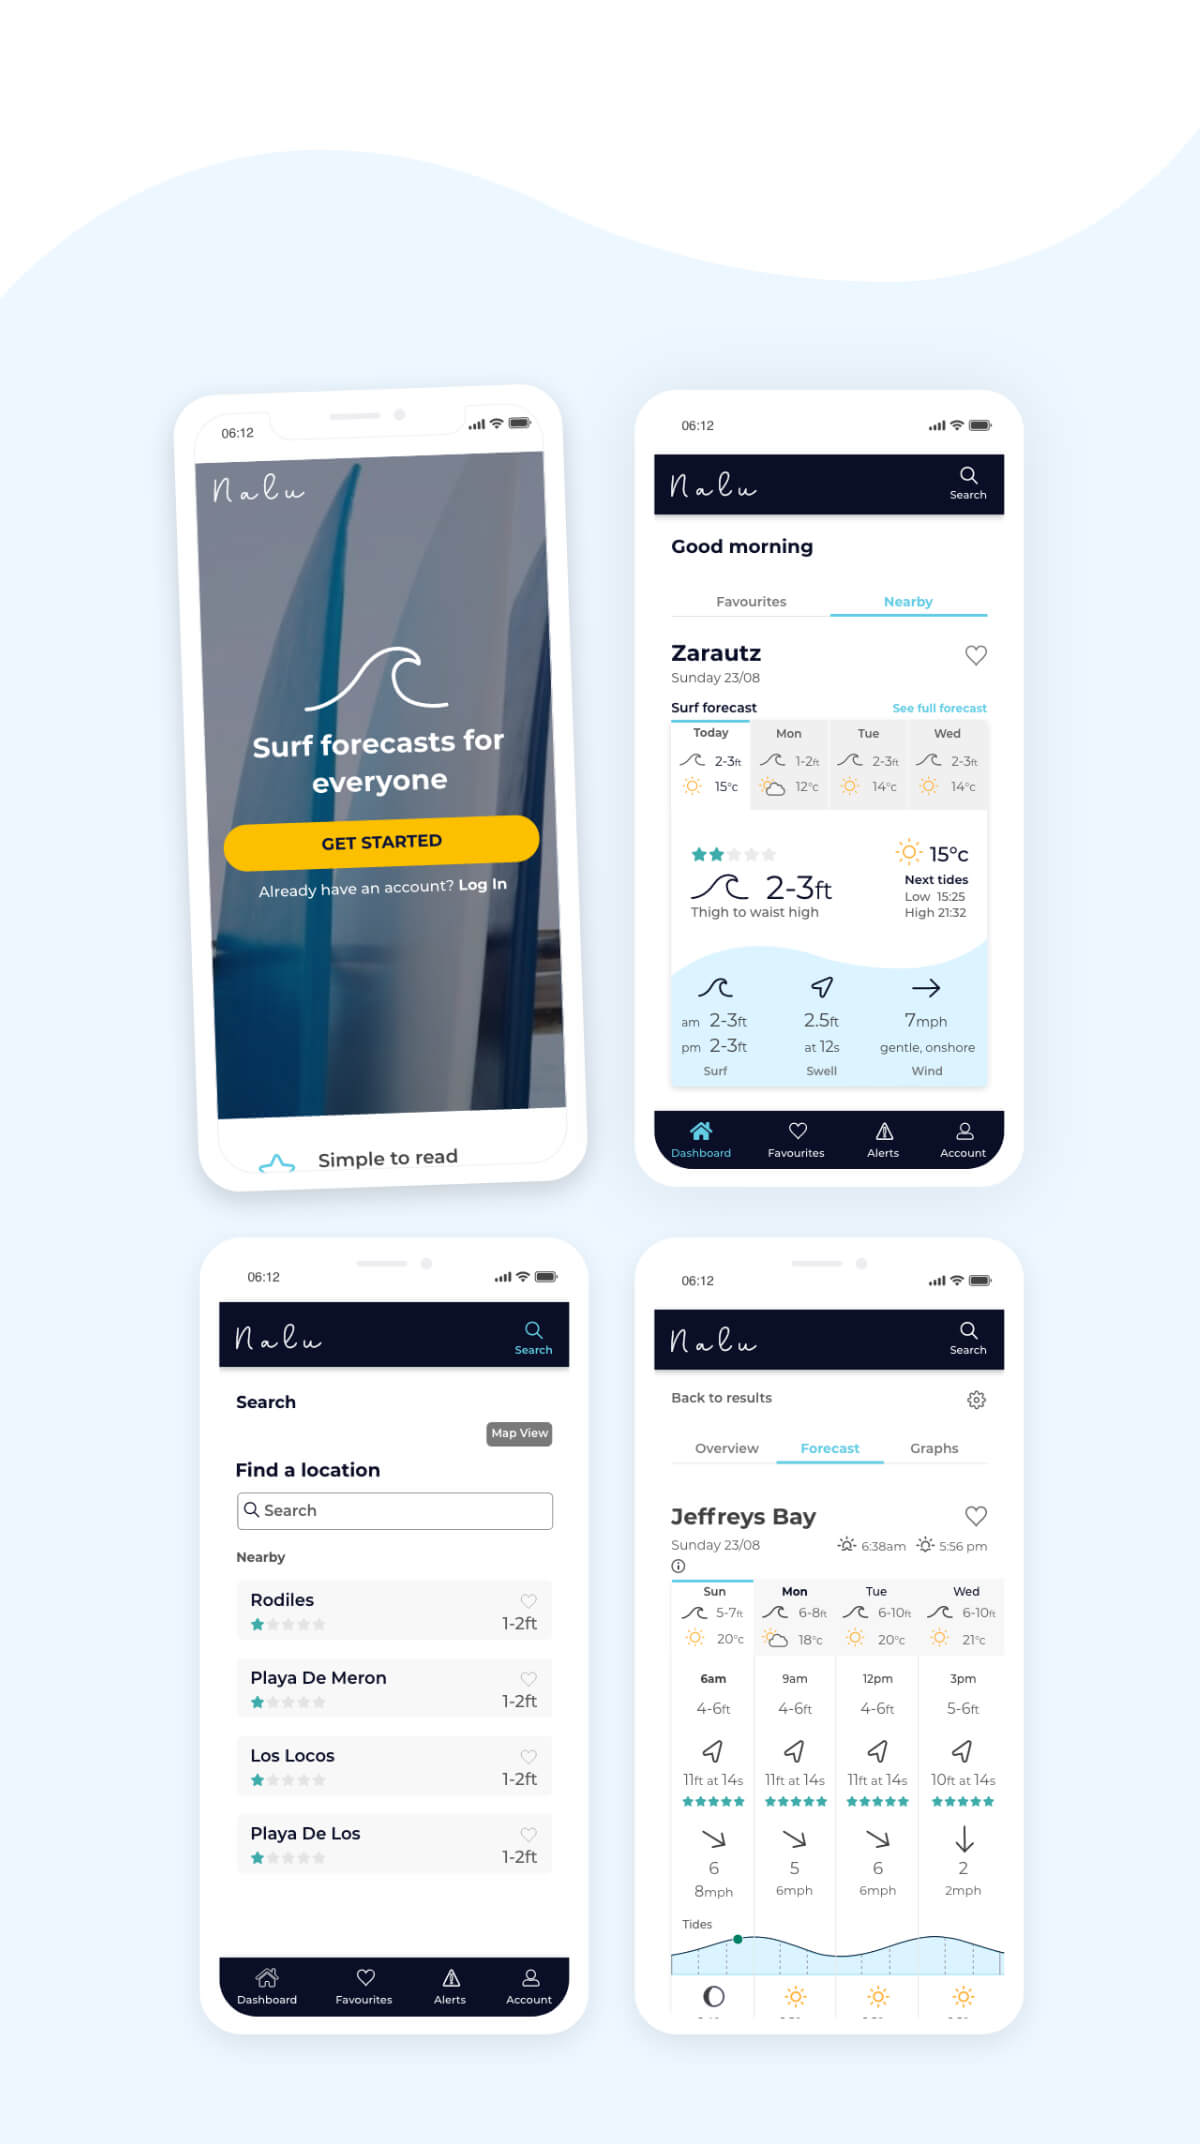
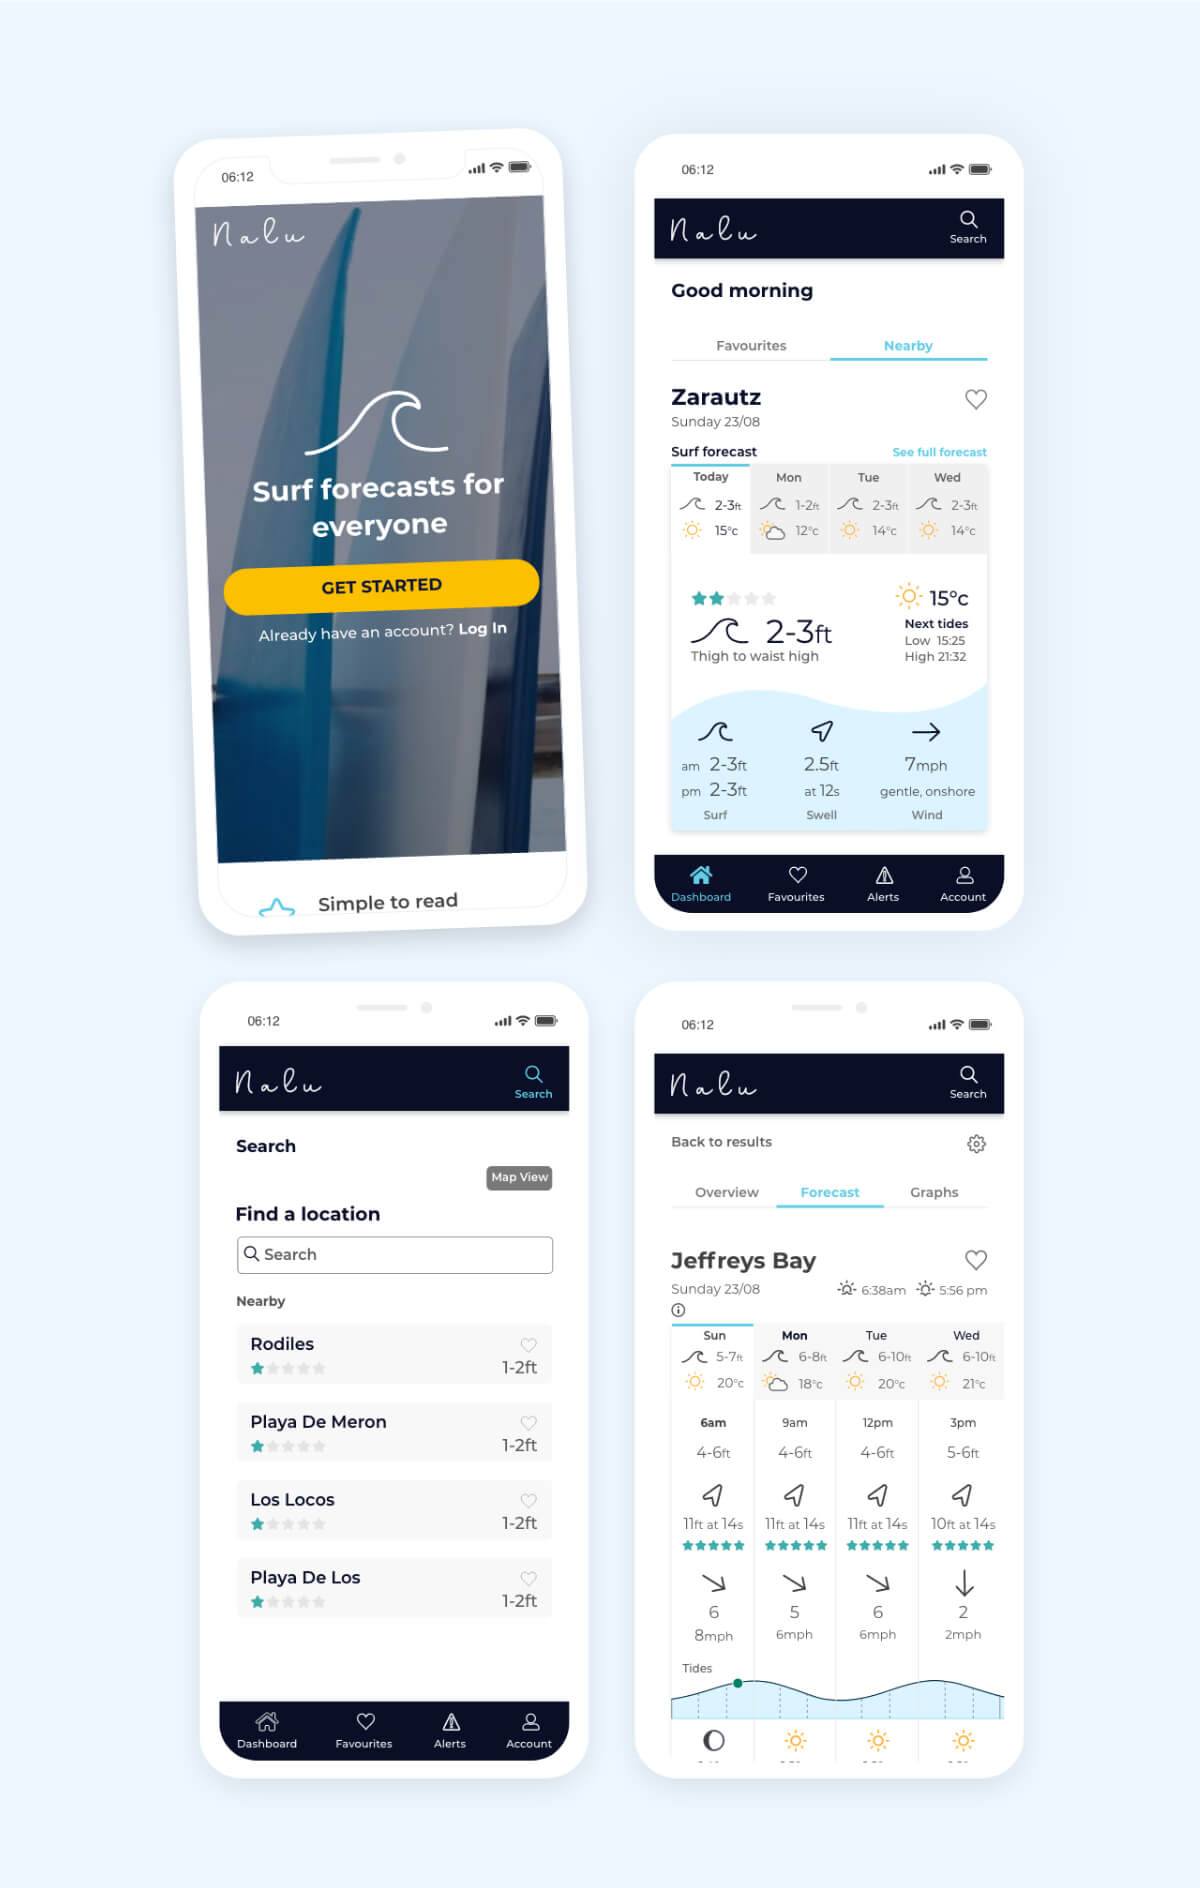
Update photos nalu.html
Update photos nalu.html

Changed region(s): [[0.1233, 0.0625, 0.4933, 0.9688], [0.5242, 0.0625, 0.8633, 0.9688], [0.4625, 0.0625, 0.4933, 0.0938]]

diff --git a/nalu.html b/nalu.html
@@ -115,8 +115,8 @@
 			<div class="row">
 				<div class="col-md-6 col-lg-5">
 					<picture class="work">
-						<source srcset="img/nalu/homepage/nalu1.jpg" media="(max-width:767px)">
-						<img src="img/nalu/homepage/nalu2.jpg" alt="nalu">
+						<source srcset="img/nalu/project/nalu_ideation.jpg" media="(max-width:767px)">
+						<img src="img/nalu/project/nalu_ideation.jpg" alt="nalu">
 					</picture>
 				</div>
 
